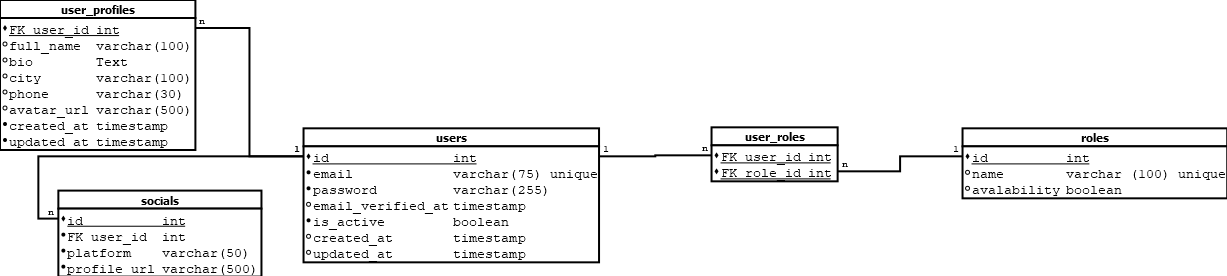
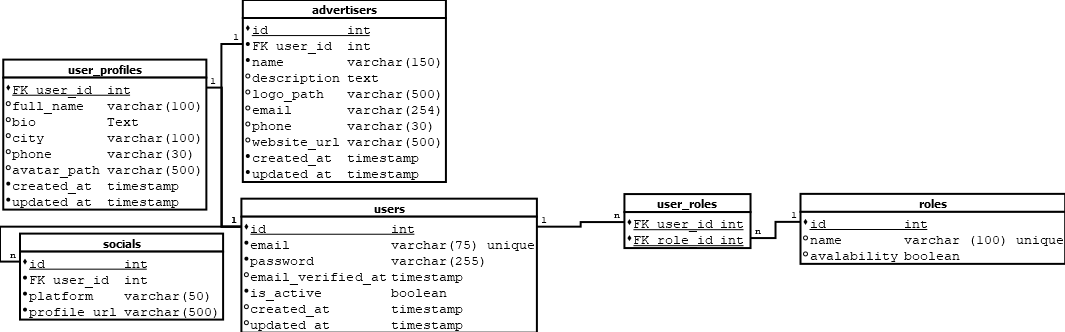
kis változtatások

Changed region(s): [[0.0, 0.0, 1.0, 1.0]]

diff --git a/description.md b/description.md
@@ -525,7 +525,6 @@ A felhasználók profiladatait tárolja.
 | city         | VARCHAR           |
 | phone        | VARCHAR, NULL     |
 | avatar_url   | VARCHAR, NULL     |
-| socials_id   | FK  VARCHAR, NULL |
 | created_at   | TIMESTAMP         |
 | updated_at   | TIMESTAMP         |
 
@@ -536,6 +535,12 @@ Kapcsolat:
 ---
 
 ## socials
+
+id  
+user_id  
+platform  
+profile_url  
+
 
 ## 5.7. advertisers
 
